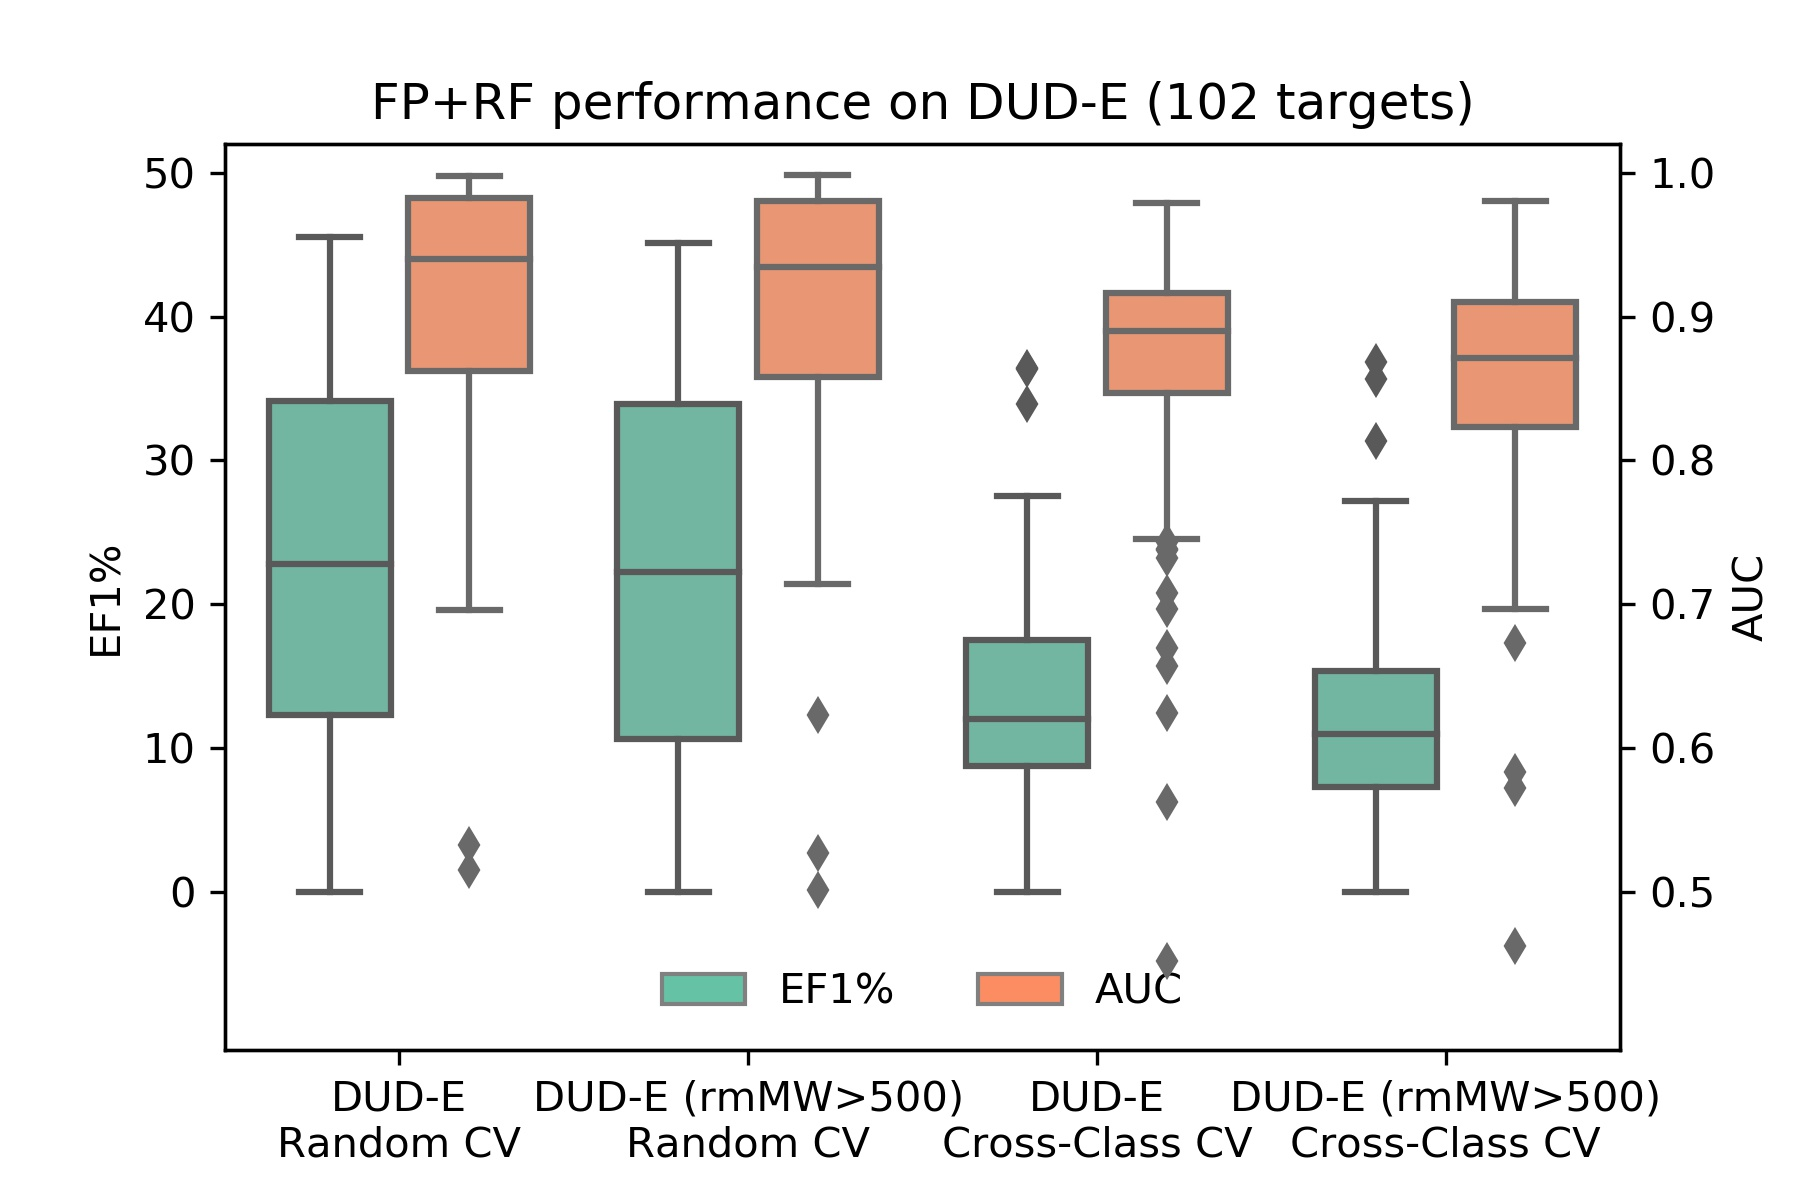
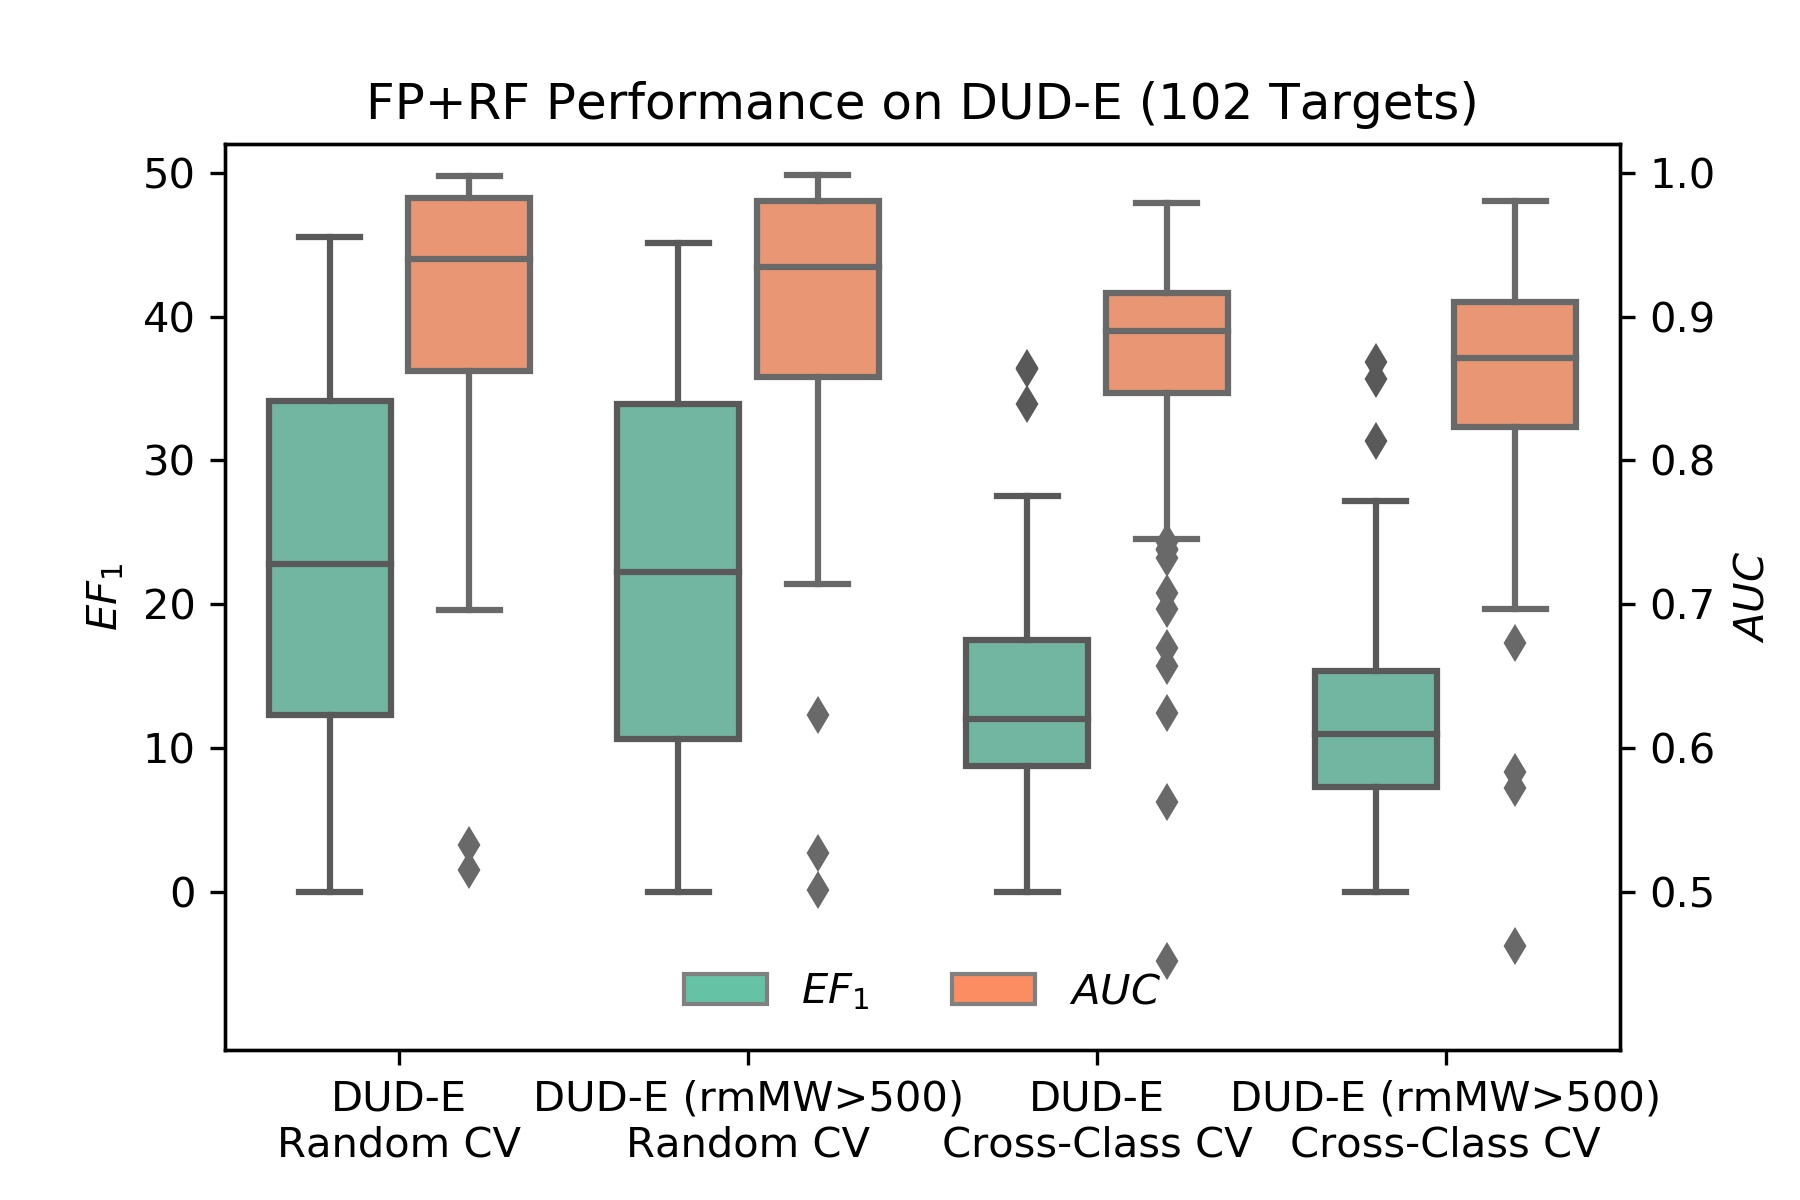
change EF1% to  $EF_1$ Capitalize First Letter Of Each Word

diff --git a/dude/figures/box.py b/dude/figures/box.py
@@ -56,14 +56,14 @@ sns.boxplot(
 )
 
 ax.set_xlabel('')
-ax.set_ylabel('EF1%')
+ax.set_ylabel('$EF_1$')
 ax.set_ylim([-11, 52])
 ax.set_yticks(np.linspace(0, 50, 6))
-ax2.set_ylabel('AUC')
+ax2.set_ylabel('$AUC$')
 ax2.set_ylim([0.39, 1.02])
 ax2.set_yticks(np.linspace(0.5, 1, 6))
 
-ax.set_title("PROP+RF performance on DUD-E (102 targets)")
+ax.set_title("PROP+RF Performance on DUD-E (102 Targets)")
 
 
 # https://github.com/0ut0fcontrol/seaborn/blob/master/seaborn/categorical.py
@@ -78,8 +78,8 @@ def add_legend_data(ax, color, label):
     ax.add_patch(rect)
 
 
-add_legend_data(ax, colors[0], 'EF1%')
-add_legend_data(ax, colors[1], 'AUC')
+add_legend_data(ax, colors[0], '$EF_1$')
+add_legend_data(ax, colors[1], '$AUC$')
 ax.legend(frameon=False, loc='lower center', ncol=2)
 fig.savefig(root / 'PROP.jpg', dpi=300)
 
@@ -116,14 +116,14 @@ sns.boxplot(
 )
 
 ax.set_xlabel('')
-ax.set_ylabel('EF1%')
+ax.set_ylabel('$EF_1$')
 ax.set_ylim([-11, 52])
 ax.set_yticks(np.linspace(0, 50, 6))
-ax2.set_ylabel('AUC')
+ax2.set_ylabel('$AUC$')
 ax2.set_ylim([0.39, 1.02])
 ax2.set_yticks(np.linspace(0.5, 1, 6))
 
-ax.set_title("FP+RF performance on DUD-E (102 targets)")
+ax.set_title("FP+RF Performance on DUD-E (102 Targets)")
 
 
 # https://github.com/0ut0fcontrol/seaborn/blob/master/seaborn/categorical.py
@@ -138,8 +138,8 @@ def add_legend_data(ax, color, label):
     ax.add_patch(rect)
 
 
-add_legend_data(ax, colors[0], 'EF1%')
-add_legend_data(ax, colors[1], 'AUC')
+add_legend_data(ax, colors[0], '$EF_1$')
+add_legend_data(ax, colors[1], '$AUC$')
 ax.legend(frameon=False, loc='lower center', ncol=2)
 fig.savefig(root / 'FP.jpg', dpi=300)
 
